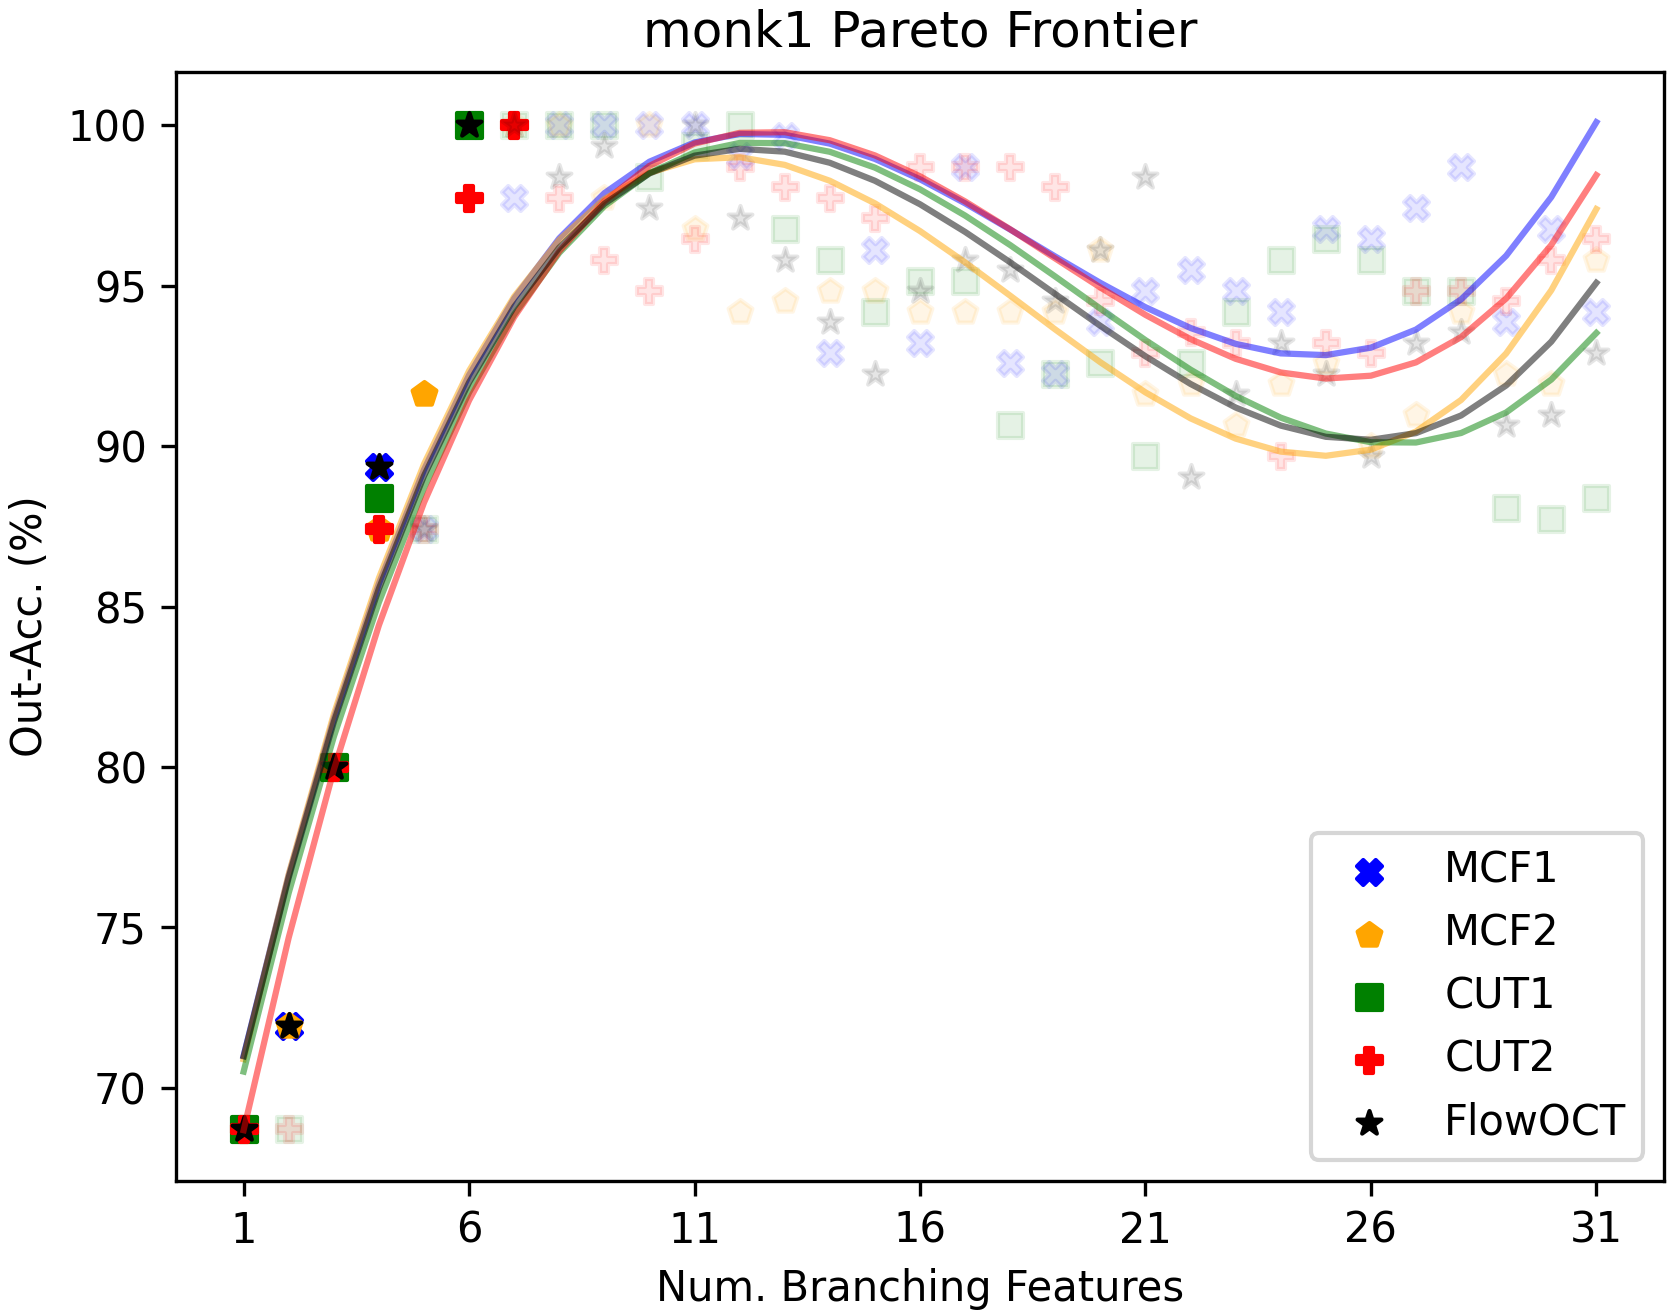
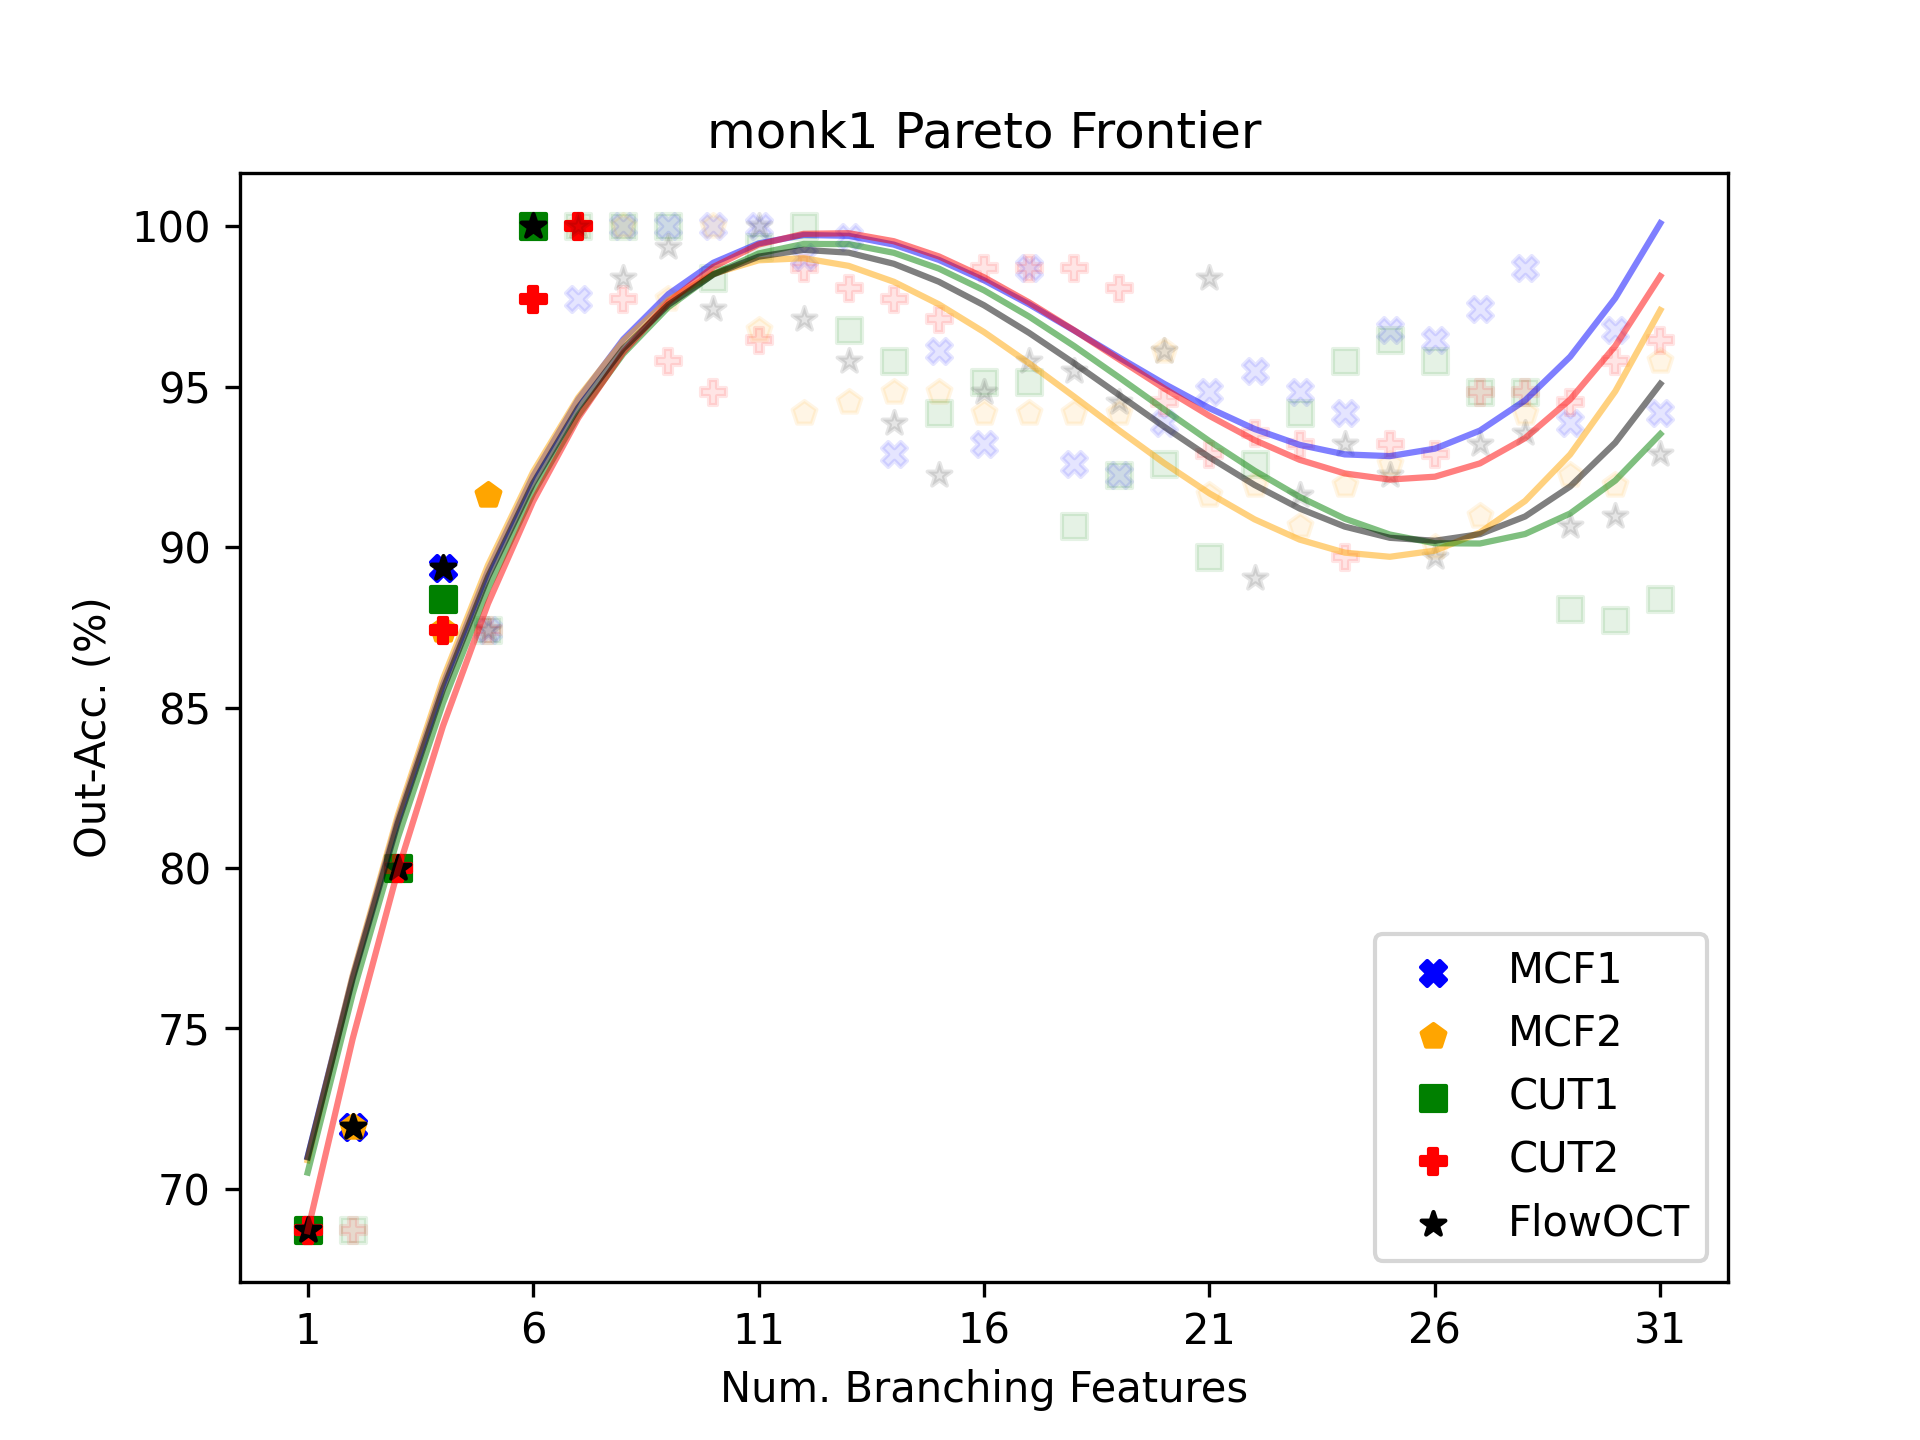
Pareto frontier

diff --git a/Code/pareto_runs.py b/Code/pareto_runs.py
@@ -98,7 +98,7 @@ def main(argv):
                     if 'AGHA' == modeltype: WSV = {'tree': tree.DG_prime.nodes(data=True), 'data': False}
 
         # Generate pareto plot of models using run averages of pareto.csv file
-        pareto_data = pd.pareto_data = pd.read_csv('results_files/pareto.csv', na_values='?')
+        pareto_data = pd.pareto_data = pd.read_csv(f'results_files/{file_out}', na_values='?')
         file_data = pareto_data[pareto_data['Data'] == file.replace('.csv', '')]
         frontier_avg = pd.DataFrame(columns=summary_columns)
         for model in ['AGHA','MCF1','MCF2','CUT1','CUT2','FlowOCT','BendersOCT']:
@@ -121,4 +121,4 @@ def main(argv):
                     'Level Tree': False,
                     'Max Features': float(feature), 'Super Feature': False
                 }, ignore_index=True)
-        OR.pareto_frontier(frontier_avg)
+        OR.pareto_plot(frontier_avg)
